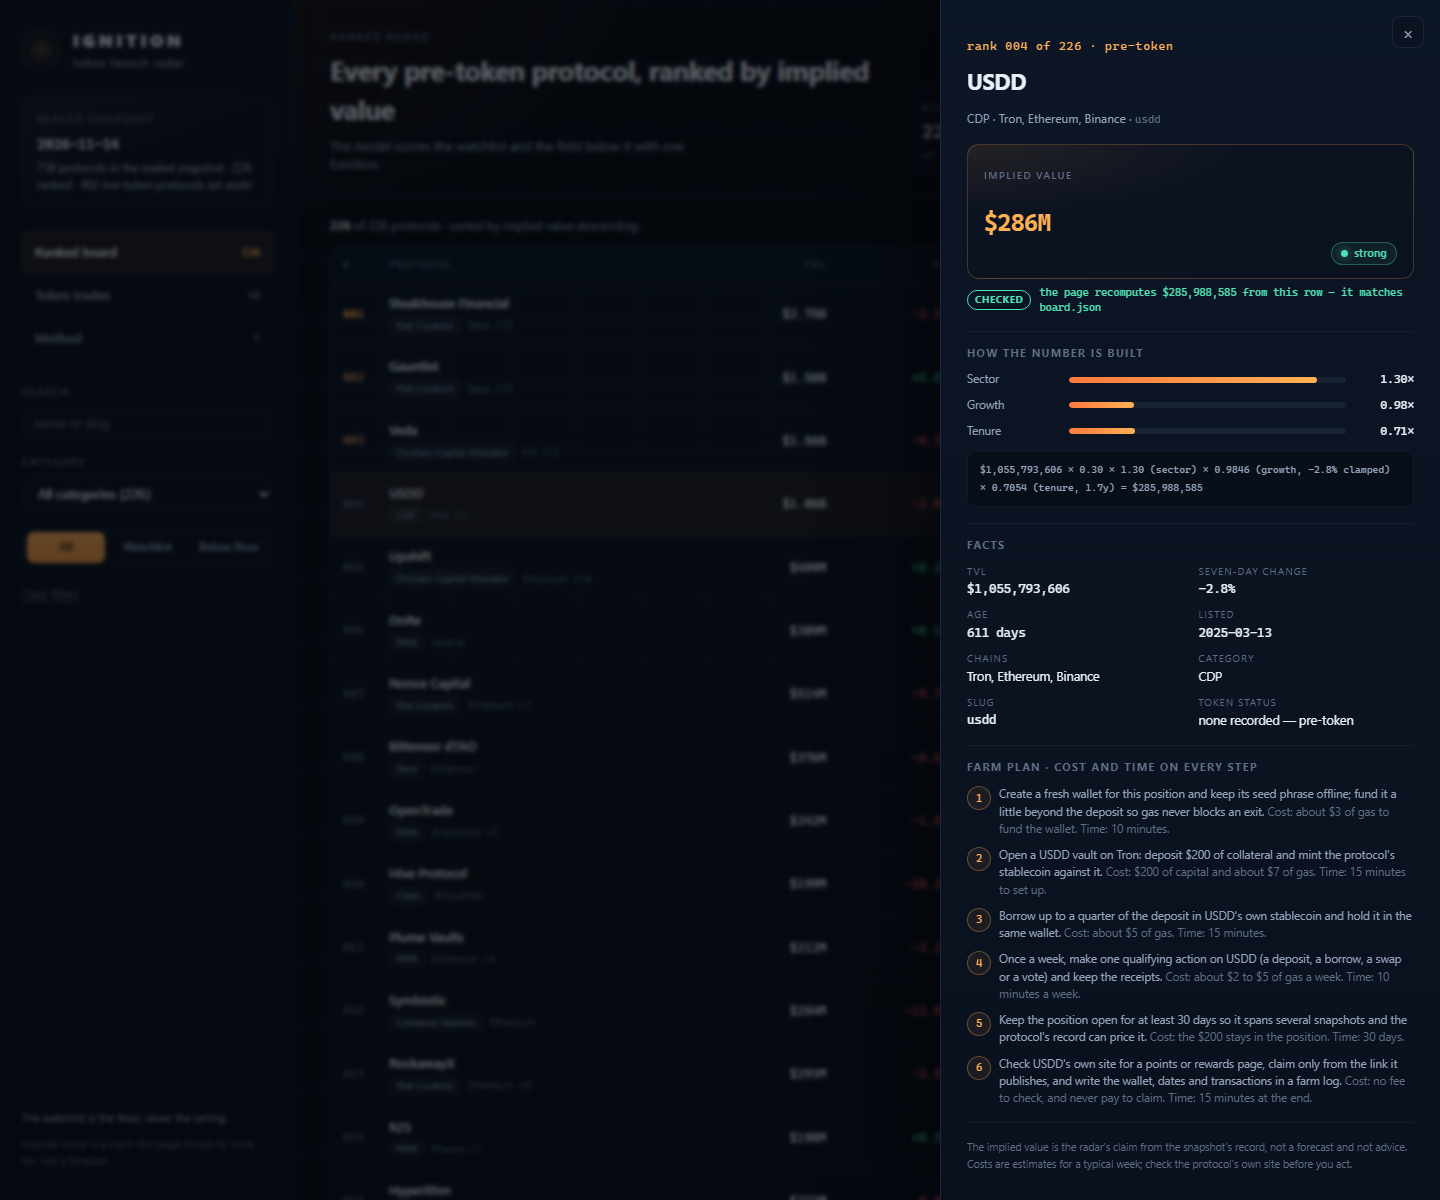
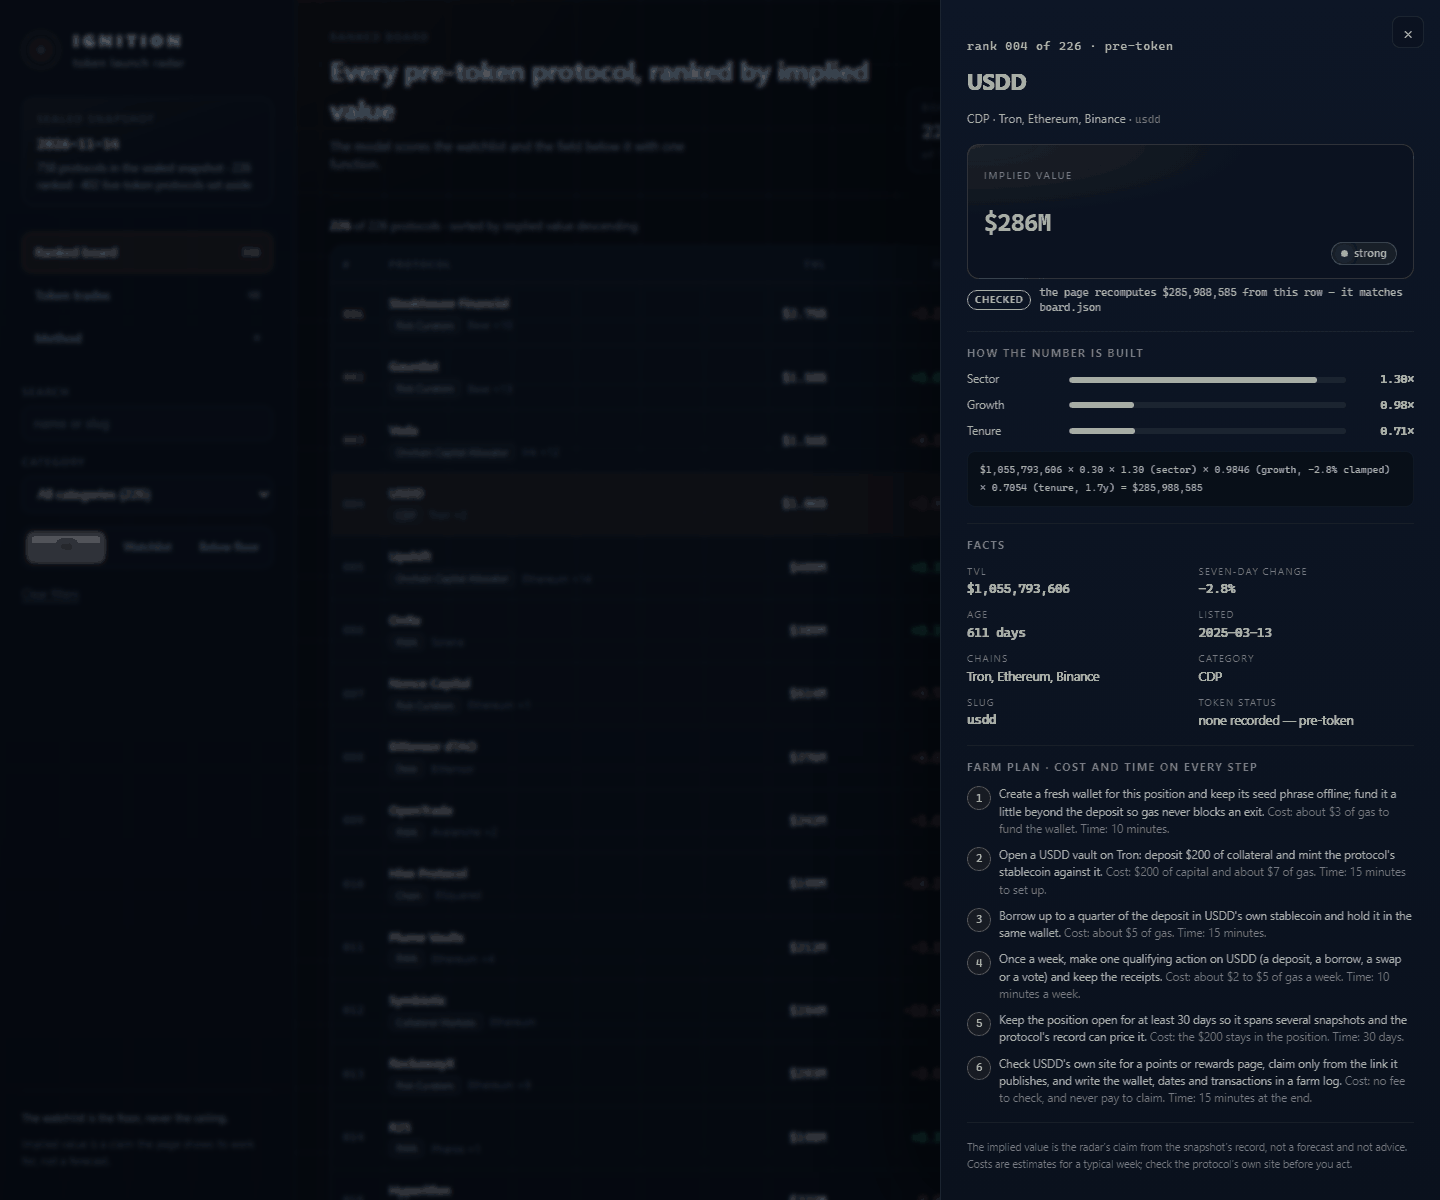
fix: re-encode screenshots so the dossier fits the 1.5 MiB cap
Palette PNGs keep every pixel dimension and the four-image count; the
dossier the gate builds from them is 603,910 bytes instead of 1,886,782,
byte-identical across runs.

diff --git a/tools/recompress.py b/tools/recompress.py
@@ -1,0 +1,55 @@
+"""Re-encode the entry's screenshots as palette PNGs, in place.
+
+Each screenshots/*.png keeps its pixel dimensions, name and count: the pixels are
+converted to RGB and then to an adaptive 96-colour palette; only a file that would
+land over the 512 KiB cap drops to 64 and then 48 colours. Files are encoded in
+memory and replaced only once the bytes fit, so a failure leaves the original.
+"""
+
+from __future__ import annotations
+
+import io
+import sys
+from pathlib import Path
+
+from PIL import Image
+
+MAX_BYTES = 524_288
+COLOR_STEPS = (96, 64, 48)
+
+root = Path(__file__).resolve().parents[1]
+shots = sorted((root / "screenshots").glob("*.png"))
+if not shots:
+    sys.exit("recompress: no screenshots/*.png found")
+
+total = 0
+for path in shots:
+    before = path.stat().st_size
+    with Image.open(path) as source:
+        source.load()
+        size = source.size
+        rgb = source.convert("RGB")
+
+    encoded = None
+    for colors in COLOR_STEPS:
+        buffer = io.BytesIO()
+        rgb.convert("P", palette=Image.ADAPTIVE, colors=colors).save(
+            buffer, format="PNG", optimize=True
+        )
+        data = buffer.getvalue()
+        if len(data) <= MAX_BYTES:
+            encoded = data
+            break
+
+    if encoded is None:
+        sys.exit(f"recompress: {path.name} stays over {MAX_BYTES} bytes at 48 colours")
+
+    with Image.open(io.BytesIO(encoded)) as check:
+        if check.size != size:
+            sys.exit(f"recompress: {path.name} changed size {size} -> {check.size}")
+
+    path.write_bytes(encoded)
+    total += len(encoded)
+    print(f"{path.name}: {before} -> {len(encoded)} bytes, {colors} colours, {size[0]}x{size[1]}")
+
+print(f"total: {total} bytes across {len(shots)} files")
